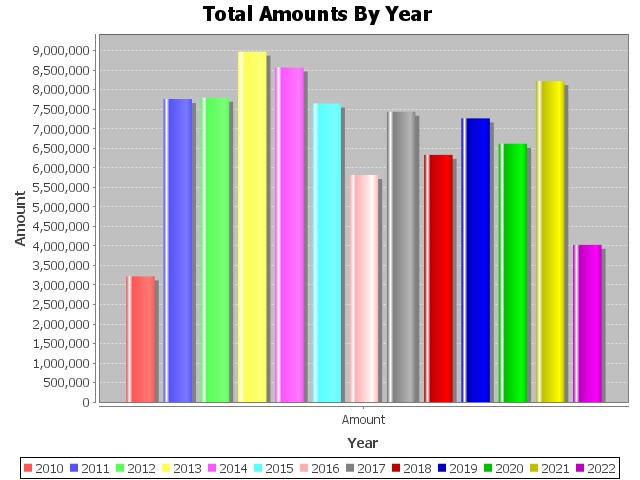
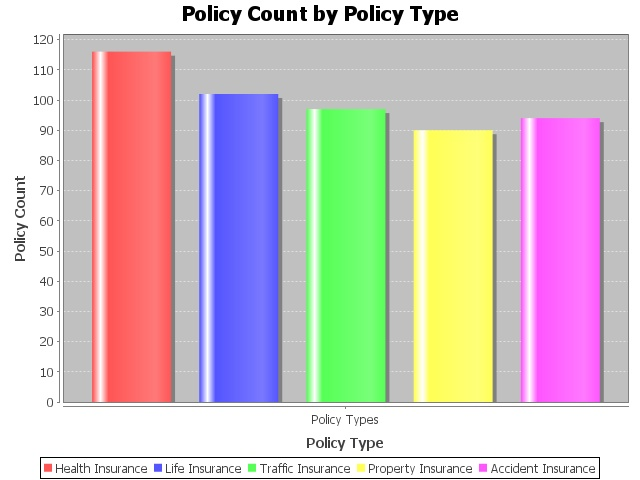
second commit

diff --git a/src/main/java/com/erenuygur/TermProjectApp.java b/src/main/java/com/erenuygur/TermProjectApp.java
@@ -1,52 +1,34 @@
 package com.erenuygur;
 
-import com.erenuygur.chart.BarChart;
-import com.erenuygur.model.Agency;
-import com.erenuygur.model.CustomerPolicy;
-import com.erenuygur.model.Policy;
-import com.erenuygur.service.AgencyService;
-import com.erenuygur.service.CustomerPolicyService;
-import com.erenuygur.service.PolicyService;
+import com.erenuygur.util.Display;
 import org.springframework.context.support.AbstractApplicationContext;
-import org.springframework.context.support.ClassPathXmlApplicationContext;
 
 import java.io.IOException;
-import java.util.List;
 import java.util.Scanner;
 
 public class TermProjectApp {
     private static AbstractApplicationContext ctx = null;
     private static final Scanner KEYBOARD_INPUT = new Scanner(System.in);
 
-    public static void main(String[] args) throws IOException {
+    public static void main(String[] args) throws Exception {
         run();
     }
 
-    public static void run() throws IOException {
-        ctx = new ClassPathXmlApplicationContext("applicationContext.xml");
-        PolicyService policyService = ctx.getBean(PolicyService.class);
+    public static void run() throws Exception {
+        for (;;) {
+            System.out.print("Please chose report type ->\n" +
+                    "1-Comparison of policy amounts by years (Bar Chart)\n" +
+                    "2-Comparison of policy amounts by years (Line Chart)\n" +
+                    "3-Comparison of policy count by policy type (Pie Chart)\n" +
+                    "4-Comparison of policy count by policy type (Bar Chart)\n" +
+                    "5-Comparison of agents by amount (Bar Chart)\n" +
+                    "E-Exit\n");
+            String input = KEYBOARD_INPUT.nextLine();
 
-        List<Policy> policyList = policyService.listPolicy();
-        for (Policy p : policyList) {
-            System.out.println(p);
+            if (input.equalsIgnoreCase("E"))
+                System.exit(0);
+
+            Display.run(input);
         }
-
-        CustomerPolicyService customerPolicyService = ctx.getBean(CustomerPolicyService.class);
-
-        List<CustomerPolicy> customerPolicyList = customerPolicyService.listCustomerPolicy();
-        for (CustomerPolicy customerPolicy : customerPolicyList)
-            System.out.println(customerPolicy);
-
-
-        AgencyService agencyService = ctx.getBean(AgencyService.class);
-
-        List<Agency> agencyList = agencyService.listAgency();
-        for (Agency agency : agencyList)
-            System.out.println(agency);
-
-        BarChart barChart = new BarChart();
-        barChart.barchart(customerPolicyService.getReportByYear());
-
     }
-
 }

diff --git a/src/main/java/com/erenuygur/chart/BarChart.java b/src/main/java/com/erenuygur/chart/BarChart.java
@@ -1,6 +1,5 @@
 package com.erenuygur.chart;
 
-import com.erenuygur.model.Policy;
 import org.jfree.chart.ChartFactory;
 import org.jfree.chart.ChartPanel;
 import org.jfree.chart.ChartUtilities;
@@ -14,12 +13,11 @@ import java.io.IOException;
 import java.util.HashMap;
 
 public class BarChart {
-    public void barchart(HashMap<String,Double> policyAmounts) throws IOException {
+    public static void barChart(HashMap<String, Double> data) throws IOException {
         final DefaultCategoryDataset dataset = new DefaultCategoryDataset( );
-        for (String str: policyAmounts.keySet()){
-            dataset.addValue(policyAmounts.get(str), str,"Amount");
+        for (String str: data.keySet()){
+            dataset.addValue(data.get(str), str,"Amount");
         }
-
 
         JFreeChart barChart = ChartFactory.createBarChart(
                 "Total Amounts By Year ",
@@ -43,5 +41,36 @@ public class BarChart {
         frame.setAlwaysOnTop(true);
 
     }
+
+    public static void barChartInt(HashMap<String, Integer> data) throws IOException {
+        final DefaultCategoryDataset dataset = new DefaultCategoryDataset( );
+        for (String str: data.keySet()){
+            dataset.addValue(data.get(str), str,"Policy Types");
+        }
+
+        JFreeChart barChart = ChartFactory.createBarChart(
+                "Policy Count by Policy Type",
+                "Policy Type", "Policy Count",
+                dataset, PlotOrientation.VERTICAL,
+                true, true, false);
+
+        //saving chart as image
+        int width = 640;    /* Width of the image */
+        int height = 480;   /* Height of the image */
+        File BarChart = new File( "Total Policy Amount BarChart.jpeg" );
+        ChartUtilities.saveChartAsJPEG( BarChart , barChart , width , height );
+
+        ChartPanel cp = new ChartPanel(barChart);
+        JFrame frame = new JFrame();
+
+        frame.add(cp);
+        frame.setSize(850, 500);
+        frame.setVisible(true);
+        frame.setLocationRelativeTo(null);
+        frame.setAlwaysOnTop(true);
+
+    }
+
+
 
 }

diff --git a/src/main/java/com/erenuygur/service/PolicyService.java b/src/main/java/com/erenuygur/service/PolicyService.java
@@ -1,10 +1,15 @@
 package com.erenuygur.service;
 
+import com.erenuygur.chart.BarChart;
+import com.erenuygur.chart.PieChart;
 import com.erenuygur.model.Policy;
 import com.erenuygur.repository.PolicyRepository;
 import lombok.Data;
 import lombok.NoArgsConstructor;
+import org.springframework.context.support.ClassPathXmlApplicationContext;
 
+import java.io.IOException;
+import java.util.LinkedHashMap;
 import java.util.List;
 
 @NoArgsConstructor
@@ -22,6 +27,24 @@ public class PolicyService {
 
     public List<Policy> listPolicy() {
         return policyRepository.getAllPolicy();
+    }
+
+    public LinkedHashMap<String, Integer> getReportByPolicyType() {
+        return policyRepository.getPolicyName();
+    }
+
+    public void createBarChart() throws IOException {
+        ClassPathXmlApplicationContext ctx = new ClassPathXmlApplicationContext("applicationContext.xml");
+        PolicyService policyService = ctx.getBean(PolicyService.class);
+
+        BarChart.barChartInt(policyService.getReportByPolicyType());
+    }
+
+    public void createPieChart() throws Exception {
+        ClassPathXmlApplicationContext ctx = new ClassPathXmlApplicationContext("applicationContext.xml");
+        PolicyService policyService = ctx.getBean(PolicyService.class);
+
+        PieChart.pieChart(policyService.getReportByPolicyType());
     }
 
 }

diff --git a/src/main/java/com/erenuygur/repository/PolicyRepository.java b/src/main/java/com/erenuygur/repository/PolicyRepository.java
@@ -12,8 +12,11 @@ import javax.persistence.Query;
 import javax.persistence.criteria.CriteriaBuilder;
 import javax.persistence.criteria.CriteriaQuery;
 import javax.persistence.criteria.Root;
+import java.math.BigInteger;
 import java.util.ArrayList;
+import java.util.LinkedHashMap;
 import java.util.List;
+
 
 @NoArgsConstructor
 @Data
@@ -55,4 +58,25 @@ public class PolicyRepository {
             return new ArrayList<Policy>();
         }
     }
+
+
+    public LinkedHashMap<String, Integer> getPolicyName() {
+        Session session = this.sessionFactory.openSession();
+        LinkedHashMap<String, Integer> policyNameAndTotalPayment = new LinkedHashMap<>();
+        String sql = "select p.\"name\",count(*) as quantitiy from customer_policy cp,policy p  " +
+                "where cp.agency_id =p.id group by p.\"name\"\n";
+
+        List<Object> list = session.createNativeQuery(sql).getResultList();
+
+        for (int i = 0; i < list.size(); i++) {
+            Object[] row = (Object[]) list.get(i);
+            String policyName = row[0].toString();
+            int amount = ((BigInteger) row[1]).intValue();
+
+            policyNameAndTotalPayment.put(policyName, amount);
+        }
+        return policyNameAndTotalPayment;
+    }
+
+
 }

diff --git a/src/main/java/com/erenuygur/util/Display.java b/src/main/java/com/erenuygur/util/Display.java
@@ -1,0 +1,29 @@
+package com.erenuygur.util;
+
+import com.erenuygur.service.CustomerPolicyService;
+import com.erenuygur.service.PolicyService;
+
+public class Display {
+    public static void run(String input) throws Exception {
+        if (input.equals("1")) {
+            CustomerPolicyService customerPolicyService = new CustomerPolicyService();
+            customerPolicyService.createBarChart();
+        }else if (input.equals("2")) {
+            PolicyService policyService = new PolicyService();
+            policyService.createBarChart();
+        }else if (input.equals("3")) {
+            PolicyService policyService = new PolicyService();
+            policyService.createPieChart();
+        }else if (input.equals("4")) {
+            PolicyService policyService = new PolicyService();
+            policyService.createBarChart();
+        }else if (input.equals("5")) {
+            PolicyService policyService = new PolicyService();
+            policyService.createBarChart();
+        } else {
+            System.out.println("--------------------------");
+            System.out.println("Please make a valid choice");
+            System.out.println("--------------------------");
+        }
+    }
+}

diff --git a/src/main/java/com/erenuygur/chart/PieChart.java b/src/main/java/com/erenuygur/chart/PieChart.java
@@ -1,4 +1,36 @@
 package com.erenuygur.chart;
 
+import org.jfree.chart.ChartFactory;
+import org.jfree.chart.ChartPanel;
+import org.jfree.chart.JFreeChart;
+import org.jfree.data.general.DefaultPieDataset;
+
+import javax.swing.*;
+import java.util.LinkedHashMap;
+
 public class PieChart {
+    public static void pieChart(LinkedHashMap<String, Integer> policyCountByPolicyType) throws Exception {
+        DefaultPieDataset pie_char_dataset = new DefaultPieDataset( );
+        for (String p:policyCountByPolicyType.keySet()){
+            pie_char_dataset.setValue(p,policyCountByPolicyType.get(p));
+        }
+
+        JFreeChart pieChart = ChartFactory.createPieChart(
+                "Policy Count by Policy Type",
+                pie_char_dataset,
+                true,
+                true,
+                false);
+
+        String pathName="Policy Count by Policy Type PieChart.jpeg";
+        ChartPanel cp = new ChartPanel(pieChart);
+        JFrame frame = new JFrame();
+
+        frame.add(cp);
+        frame.setSize(850, 500);
+        frame.setVisible(true);
+        frame.setLocationRelativeTo(null);
+        frame.setAlwaysOnTop(true);
+    }
+
 }

diff --git a/src/main/java/com/erenuygur/repository/AgencyRepository.java b/src/main/java/com/erenuygur/repository/AgencyRepository.java
@@ -1,6 +1,7 @@
 package com.erenuygur.repository;
 
 import com.erenuygur.model.Agency;
+import com.erenuygur.model.Payment;
 import lombok.Data;
 import lombok.NoArgsConstructor;
 import org.hibernate.Session;
@@ -8,6 +9,7 @@ import org.hibernate.SessionFactory;
 import org.springframework.beans.factory.annotation.Autowired;
 
 import javax.persistence.Query;
+import javax.persistence.TypedQuery;
 import javax.persistence.criteria.CriteriaBuilder;
 import javax.persistence.criteria.CriteriaQuery;
 import javax.persistence.criteria.Root;
@@ -39,7 +41,6 @@ public class AgencyRepository {
             CriteriaBuilder criteriaBuilder = session.getCriteriaBuilder();
             CriteriaQuery<Agency> criteriaQuery = criteriaBuilder.createQuery(Agency.class);
             Root<Agency> root = criteriaQuery.from(Agency.class);
-
             CriteriaQuery<Agency> criteriaQuery2 = criteriaQuery.select(root);
             Query query = session.createQuery(criteriaQuery2); // Query<Agency>
             List<Agency> agencyList = query.getResultList();
@@ -49,6 +50,4 @@ public class AgencyRepository {
             return new ArrayList<Agency>();
         }
     }
-
-
 }

diff --git a/src/main/java/com/erenuygur/service/CustomerPolicyService.java b/src/main/java/com/erenuygur/service/CustomerPolicyService.java
@@ -1,12 +1,14 @@
 package com.erenuygur.service;
 
-import com.erenuygur.model.Customer;
+import com.erenuygur.chart.BarChart;
+import com.erenuygur.chart.PieChart;
 import com.erenuygur.model.CustomerPolicy;
-import com.erenuygur.model.Policy;
 import com.erenuygur.repository.CustomerPolicyRepository;
 import lombok.Data;
 import lombok.NoArgsConstructor;
+import org.springframework.context.support.ClassPathXmlApplicationContext;
 
+import java.io.IOException;
 import java.util.LinkedHashMap;
 import java.util.List;
 
@@ -25,5 +27,12 @@ public class CustomerPolicyService {
 
     public LinkedHashMap<String, Double> getReportByYear() {
         return this.customerPolicyRepository.getTotalAmountByYear();
+    }
+
+    public void createBarChart() throws IOException {
+        ClassPathXmlApplicationContext ctx = new ClassPathXmlApplicationContext("applicationContext.xml");
+        CustomerPolicyService customerPolicyService = ctx.getBean(CustomerPolicyService.class);
+
+        BarChart.barChart(customerPolicyService.getReportByYear());
     }
 }

diff --git a/src/main/java/com/erenuygur/service/AgencyService.java b/src/main/java/com/erenuygur/service/AgencyService.java
@@ -21,4 +21,6 @@ public class AgencyService {
     public List<Agency> listAgency() {
         return agencyRepository.getAllAgency();
     }
+
+
 }

diff --git a/src/main/java/com/erenuygur/chart/LineChart.java b/src/main/java/com/erenuygur/chart/LineChart.java
@@ -1,4 +1,5 @@
 package com.erenuygur.chart;
 
 public class LineChart {
+
 }
